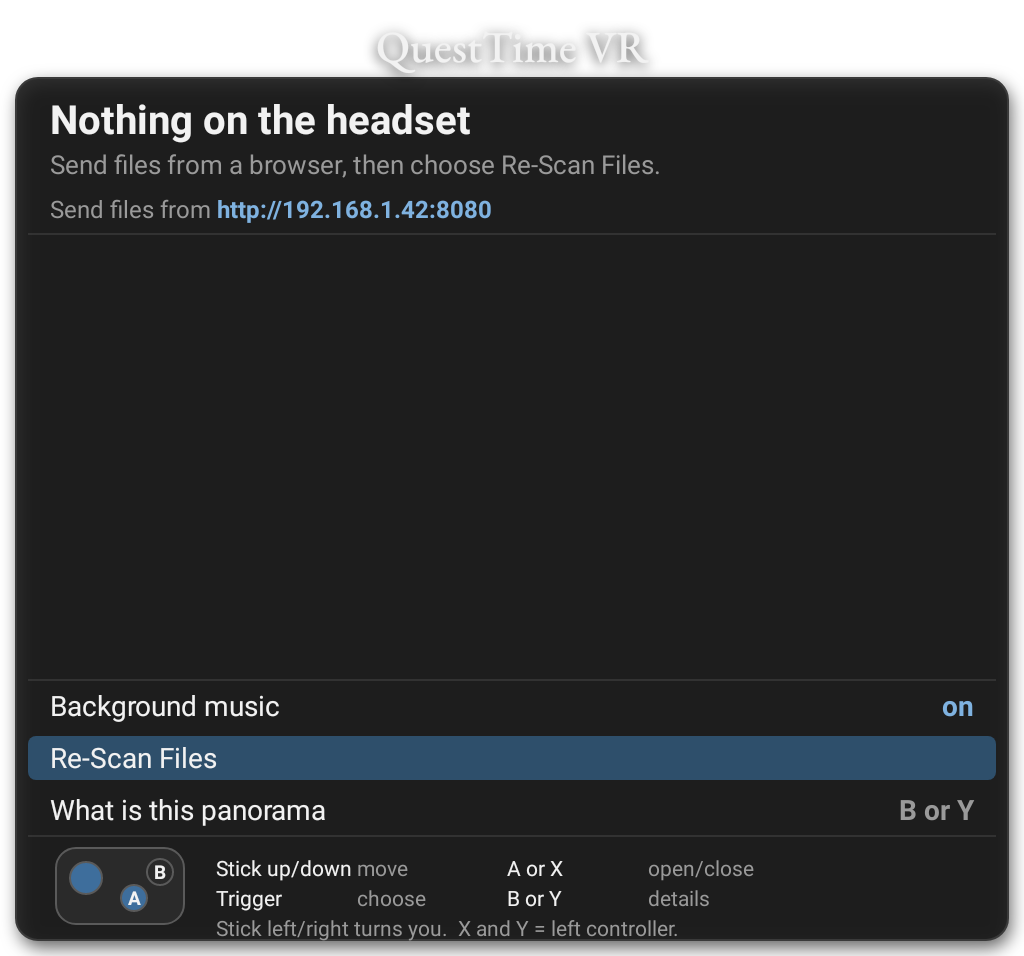
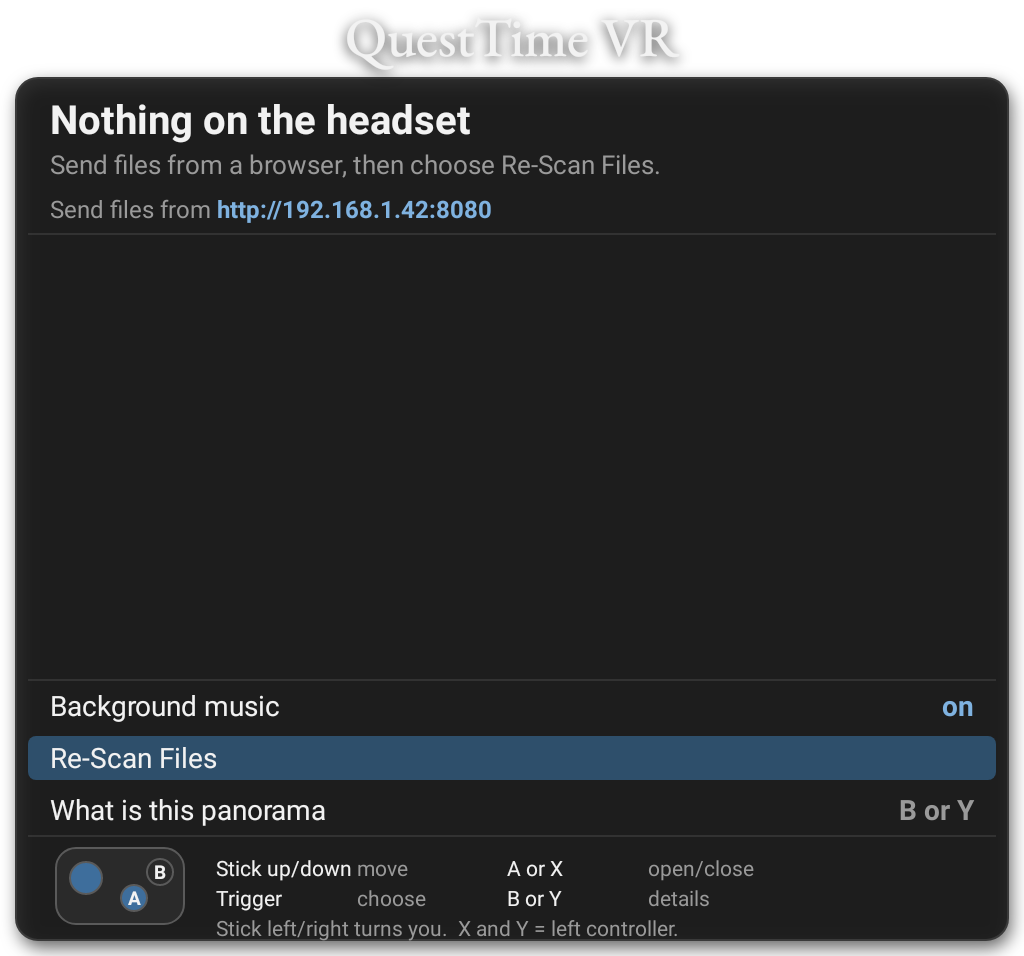
Menu title at 55 px, raised so the Q's tail clears the panel

Changed region(s): [[0.3125, 0.0, 0.6562, 0.091]]

diff --git a/android/app/src/main/java/com/questtime/vr/MenuBar.kt b/android/app/src/main/java/com/questtime/vr/MenuBar.kt
@@ -476,16 +476,18 @@ object MenuBar {
     private fun brand(c: Canvas, panel: RectF) {
         val p = Paint(Paint.ANTI_ALIAS_FLAG).apply {
             color = TEXT
-            // 6% up from 42. BRAND_H leaves 62 px above the panel, and the cap height
-            // plus the shadow's reach still clears the top of the bitmap at this size.
-            textSize = 44.5f
+            // 55 px. Garamond's lowercase is short, so it needs more size than the Roboto
+            // it replaced to carry the same weight over a bright panorama.
+            textSize = 55f
             typeface = brandFace ?: Typeface.create(UI, Typeface.BOLD)
             textAlign = Paint.Align.CENTER
             setShadowLayer(10f, 0f, 3f, 0xCC000000.toInt())
         }
         // Centred over the panel rather than flush with its edge: it is a title for
         // the whole thing, not the first line of the list.
-        c.drawText("QuestTime VR", panel.centerX(), panel.top - 16f, p)
+        // 22 px above the panel rather than 16: at 55 px the Q's tail reaches below the
+        // baseline far enough to touch the panel's top edge.
+        c.drawText("QuestTime VR", panel.centerX(), panel.top - 22f, p)
     }
 
     private fun address(c: Canvas, panel: RectF, inset: Float, url: String?) {

diff --git a/CLAUDE.md b/CLAUDE.md
@@ -402,7 +402,7 @@ License - the licence ships beside the font in the APK, as the OFL requires. Not
 Only the title uses it. Everything else stays Roboto, which holds up better at small
 sizes in a headset. `MenuBar.loadBrandFont` is called once from `VrActivity`, because
 loading an asset needs an AssetManager and `MenuBar` has no Context; without it the
-title falls back to bold Roboto rather than failing. `MenuPreviewTest` loads it too, so
+title falls back to bold Roboto rather than failing. It is 55 px, set 22 px above the panel so the tail of the Q clears its top edge. `MenuPreviewTest` loads it too, so
 the screenshots match the headset.
 
 **It is submitted last**, after the arcs rather than before them like the caps.
